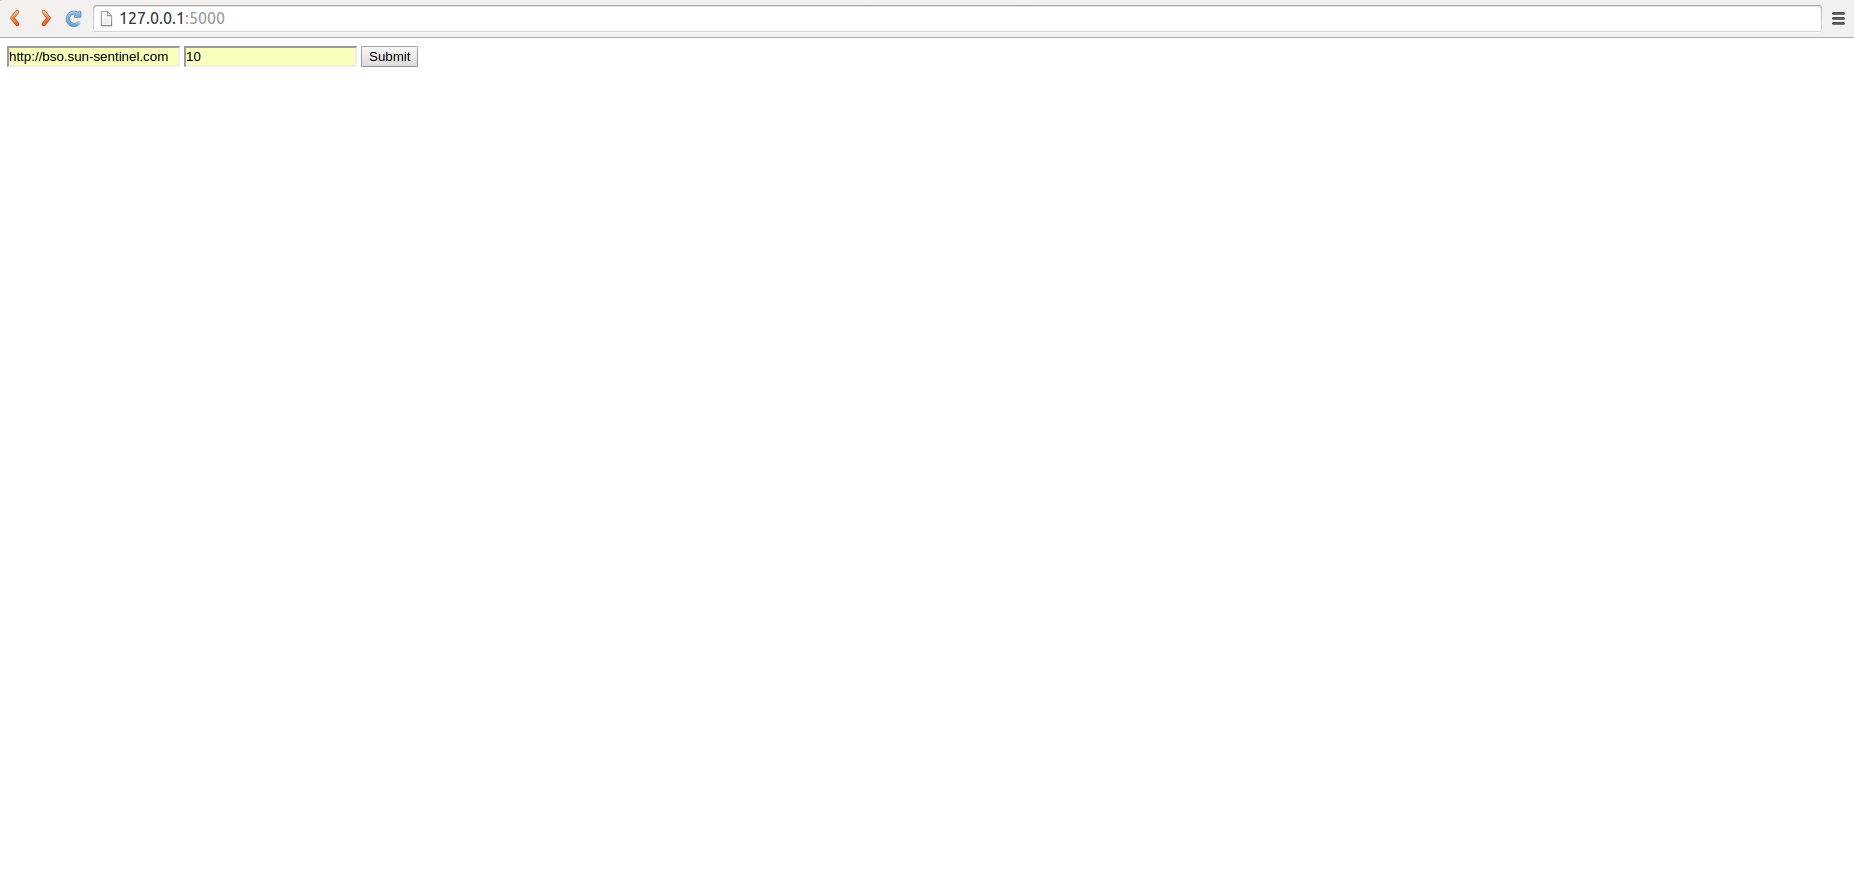
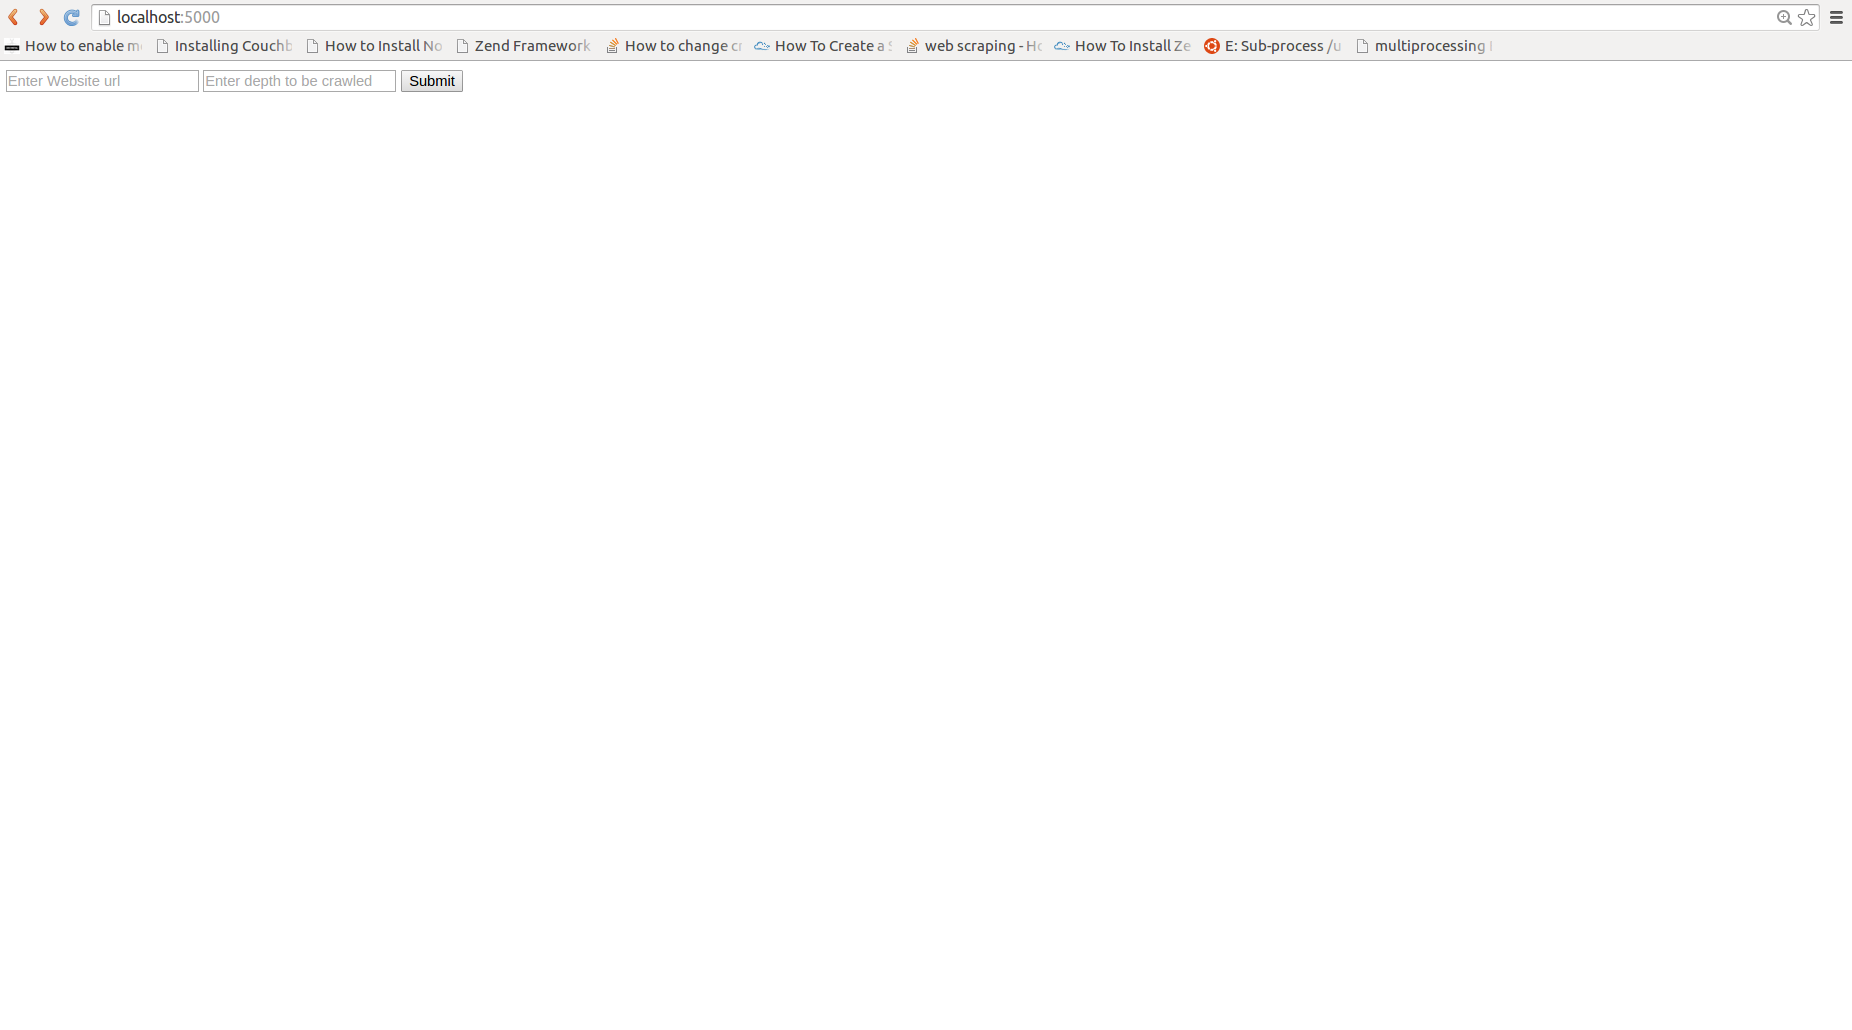
modified:   README.rst 	modified:   Screenshots/Screenshot1.png 	modified:   Screenshots/Screenshot2.png 	Screenshots/Screenshot3.png

Changed region(s): [[0.0, 0.0, 1.0, 0.0929]]

diff --git a/README.rst b/README.rst
@@ -16,6 +16,9 @@ Install Scrapy
 
     pip install Scrapy
 
+
+
+
 Install Selenium:: (To run with selenium_crawler )
     
     pip install selenium==2.47
@@ -44,7 +47,7 @@ Access the URL to see if the server is up::
 
     http://127.0.0.1:5000/
 
-    Provide input url as http://bso.sun-sentinel.com and depth of your wish then click submit and wait to see the scraped images.
+    Provide input url as http://www.bestwallpapers-hd.com and depth of your wish then click submit and wait to see the scraped images.
 
 To run the unit tests::
 
